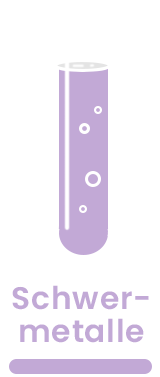
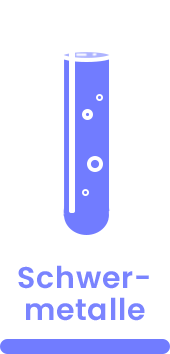
translation until screen 6

Changed region(s): [[0.0, 0.7458, 1.0, 1.0], [0.3438, 0.1243, 0.6875, 0.6836]]

diff --git a/static/js.js b/static/js.js
@@ -7,6 +7,7 @@ var language = "en";
 
 var indirect_num = 0;
 var direct_num = 0;
+var num_contact = 0;
 
 
 /* handle the scrolling stuffs */
@@ -44,9 +45,11 @@ function toggle_language() {
         elements[i].style.display = "block";
     }
 
-    display_direct()
-    display_indirect()
-
+    display_direct();
+    display_indirect();
+    toggle_contact();
+    toggle_health_products(1);
+    //toggle_health();
 }
 
 
@@ -332,15 +335,27 @@ function toggle_health(num_issue = -1) {
     var issues = ["bpa", "fsm", "pht", "hm"];
     var colors = ["#373450", "#373450", "#373450", "#373450"];
 
-    var buttons = ["new_images/sixth/Bisphenol.png",
-                    "new_images/sixth/Flammschutzmittel.png",
-                    "new_images/sixth/Phthalate.png",
-                    "new_images/sixth/Schwermetalle.png"];
+    if(language == "de"){
+        var buttons = ["new_images/sixth/Bisphenol.png",
+                        "new_images/sixth/Flammschutzmittel.png",
+                        "new_images/sixth/Phthalate.png",
+                        "new_images/sixth/Schwermetalle.png"];
 
-    var buttons_aktiv = ["new_images/sixth/Bisphenol_aktiv.png",
-                    "new_images/sixth/Flammschutzmittel_aktiv.png",
-                    "new_images/sixth/Phthalate_aktiv.png",
-                    "new_images/sixth/Schwermetalle_aktiv.png"];
+        var buttons_aktiv = ["new_images/sixth/Bisphenol_aktiv.png",
+                        "new_images/sixth/Flammschutzmittel_aktiv.png",
+                        "new_images/sixth/Phthalate_aktiv.png",
+                        "new_images/sixth/Schwermetalle_aktiv.png"];
+    } else {
+        var buttons = ["new_images/sixth/Bisphenol_Englisch.png",
+                        "new_images/sixth/Flammschutzmittel_Englisch.png",
+                        "new_images/sixth/Phthalate_Englisch.png",
+                        "new_images/sixth/Schwermetalle_Englisch.png"];
+
+        var buttons_aktiv = ["new_images/sixth/Bisphenol_aktiv_Englisch.png",
+                        "new_images/sixth/Flammschutzmittel_aktiv_Englisch.png",
+                        "new_images/sixth/Phthalate_aktiv_Englisch.png",
+                        "new_images/sixth/Schwermetalle_aktiv_Englisch.png"];
+    }
 
     // not used any more: this was part of changing the textbox background
     console.log("issue is: " + issues[num_issue]);
@@ -363,33 +378,65 @@ function toggle_health(num_issue = -1) {
 
         var desc = issues[i] + "_description";
         var element = document.getElementById(desc);
+        var element_en = document.getElementById(desc + "_en");
+
         element.parentElement.scrollTop = 0;
+        //element_en.parentElement.scrollTop = 0;
+
         if(i == num_issue){
-            element.classList.remove("hide");
-            element.classList.add("show");
+            if(language == "de"){
+                element.classList.remove("hide");
+                element.classList.add("show");
+                element_en.classList.remove("show");
+            element_en.classList.add("hide");
+            } else {
+                element.classList.remove("show");
+                element.classList.add("hide");
+                element_en.classList.remove("hide");
+                element_en.classList.add("show");
+            }
         } else {
             element.classList.remove("show");
             element.classList.add("hide");
+            element_en.classList.remove("show");
+            element_en.classList.add("hide");
         }
 
     }
 
 
     // these are hardcoded paths to the image sources
-    var pictures = ["new_images/sixth/Beschriftung_BPA.png",
-    "new_images/sixth/Beschriftung_Flammschutzmittel.png",
-    "new_images/sixth/Beschriftung_Phthalate.png",
-    "new_images/sixth/Beschriftung_Schwermetalle.png"];
+    if(language == "de"){
+        var pictures = ["new_images/sixth/Beschriftung_BPA.png",
+        "new_images/sixth/Beschriftung_Flammschutzmittel.png",
+        "new_images/sixth/Beschriftung_Phthalate.png",
+        "new_images/sixth/Beschriftung_Schwermetalle.png"];
 
-    var products = ["new_images/sixth/Icons Bisphenol A.png",
-    "new_images/sixth/Icons Flammschutzmittel.png",
-    "new_images/sixth/Icons Phthalate.png",
-    "new_images/sixth/Icons Schwermetalle.png"];
+        var products = ["new_images/sixth/Neu_Icons_BisphenolA.png",
+        "new_images/sixth/Neu_Icons_Flammschutzmittel.png",
+        "new_images/sixth/Neu_Icons_Phthalate.png",
+        "new_images/sixth/Neu_Icons_Schwermetalle.png"];
 
-    var labels = ["new_images/sixth/Box_BPA_Kunststoffarten.png",
-    "new_images/sixth/Box_Flammschutzmittel.png",
-    "new_images/sixth/Box_Phthalate.png",
-    "new_images/sixth/Box_Schwermetalle.png"];
+        var labels = ["new_images/sixth/Box_BPA_Kunststoffarten.png",
+        "new_images/sixth/Box_Flammschutzmittel.png",
+        "new_images/sixth/Box_Phthalate.png",
+        "new_images/sixth/Box_Schwermetalle.png"];
+    } else {
+        var pictures = ["new_images/sixth/Beschriftung_BPA_Englisch.png",
+        "new_images/sixth/Beschriftung_Flammschutzmittel_Englisch.png",
+        "new_images/sixth/Beschriftung_Phthalate_Englisch.png",
+        "new_images/sixth/Beschriftung_Schwermetalle_Englisch.png"];
+
+        var products = ["new_images/sixth/Neu_Icons_BisphenolA_Englisch.png",
+        "new_images/sixth/Neu_Icons_FlameRetardants_Englisch.png",
+        "new_images/sixth/Neu_Icons_Phthalates_Englisch.png",
+        "new_images/sixth/Neu_Icons_HeavyMetals_Englisch.png"];
+
+        var labels = ["new_images/sixth/Box_BPA_Kunststoffarten_Englisch.png",
+        "new_images/sixth/Box_Flammschutzmittel_Englisch.png",
+        "new_images/sixth/Box_Phthalate_Englisch.png",
+        "new_images/sixth/Box_Schwermetalle_Englisch.png"];
+    }
 
 
     if(health_toggle_persistence){
@@ -405,13 +452,22 @@ function toggle_health(num_issue = -1) {
 
 }
 
-function toggle_health_products(){
+function toggle_health_products(mode = 0){
 
     var togglebutton = document.getElementById("health_toggle");
-    togglebutton.src = !health_toggle_persistence ? "new_images/sixth/Button_Auswirkungen.png" : "new_images/sixth/Button_Produkte.png";
 
-    // here the toggle logic is set
-    health_toggle_persistence = !health_toggle_persistence;
+    if( mode == 0 ){
+        // here the toggle logic is set
+        health_toggle_persistence = !health_toggle_persistence;
+    }
+
+
+    if(language == "de"){
+        togglebutton.src = health_toggle_persistence ? "new_images/sixth/Button_Auswirkungen.png" : "new_images/sixth/Button_Produkte.png";
+    } else {
+        togglebutton.src = health_toggle_persistence ? "new_images/sixth/Button_Auswirkungen_Englisch.png" : "new_images/sixth/Button_Produkte_Englisch.png";
+    }
+
 
     // toggle_health is called by the buttons to change the shown content
     // in this case, we just want to reload the page because product view has been toggled
@@ -421,26 +477,58 @@ function toggle_health_products(){
 
 
 
-function toggle_contact(num_issue) {
+function toggle_contact(num_issue = -1) {
+
+    console.log("still working here");
+
+    if(num_issue == -1){
+        num_issue = num_contact;
+    } else {
+        num_contact = num_issue;
+    }
+
 
     var issues = ["atmung", "verzehr", "hautkontakt"];
 
-    var buttons = ["new_images/fifth/Atmung.png",
-                   "new_images/fifth/Verzehr.png",
-                   "new_images/fifth/Hautkontakt.png"];
+    if(language == "de") {
 
-    var buttons_aktiv = ["new_images/fifth/Atmung_ausgewählt.png",
-                    "new_images/fifth/Verzehr_ausgewählt.png",
-                    "new_images/fifth/Hautkontakt_ausgewählt.png"];
+        var buttons = ["new_images/fifth/Atmung.png",
+                       "new_images/fifth/Verzehr.png",
+                       "new_images/fifth/Hautkontakt.png"];
+
+        var buttons_aktiv = ["new_images/fifth/Atmung_ausgewählt.png",
+                        "new_images/fifth/Verzehr_ausgewählt.png",
+                        "new_images/fifth/Hautkontakt_ausgewählt.png"];
 
 
-    var descriptions = ["new_images/fifth/Atmung_beschreibung.png",
-                    "new_images/fifth/Verzehr_beschreibung.png",
-                    "new_images/fifth/Hautkontakt_beschreibung.png"];
+        var descriptions = ["new_images/fifth/Atmung_beschreibung.png",
+                        "new_images/fifth/Verzehr_beschreibung.png",
+                        "new_images/fifth/Hautkontakt_beschreibung.png"];
 
-    var icons = ["new_images/fifth/Icons_Atmen.png",
-                    "new_images/fifth/Icons_Verzehr.png",
-                    "new_images/fifth/Icons_Hautkontakt.png"];
+        var icons = ["new_images/fifth/Icons_Atmen_NEU.png",
+                        "new_images/fifth/Icons_Verzehr_NEU.png",
+                        "new_images/fifth/Icons_Hautkontakt_NEU.png"];
+
+    } else {
+
+        var buttons = ["new_images/fifth/Breathing.png",
+                       "new_images/fifth/consumption.png",
+                       "new_images/fifth/Skin contact.png"];
+
+        var buttons_aktiv = ["new_images/fifth/Atmung_ausgewählt_Englisch.png",
+                        "new_images/fifth/Verzehr_ausgewählt_Englisch.png",
+                        "new_images/fifth/Hautkontakt_ausgewählt_Englisch.png"];
+
+
+        var descriptions = ["new_images/fifth/Text_Breathing.png",
+                        "new_images/fifth/Text_Consumption.png",
+                        "new_images/fifth/Text_Skin contact.png"];
+
+        var icons = ["new_images/fifth/Icons_Atmen_NEU_Englisch.png",
+                        "new_images/fifth/Icons_Verzehr_NEU_Englisch.png",
+                        "new_images/fifth/Icons_Haut_NEU_Englisch.png"];
+
+    }
 
 
     // loop over all four available chemical buttons and change the active/passive state

diff --git a/static/index.html b/static/index.html
@@ -476,7 +476,7 @@
 
         <img id="contact_icons"
              style="height: 48.5%; left: 53%; bottom: 13.6%;"
-             src="new_images/fifth/Icons_Atmen.png">
+             src="new_images/fifth/Icons_Atmen_NEU.png">
 
 
 
@@ -537,8 +537,11 @@
             <div class="side_text"
                  style="width: 30%;  height: 100%; position: relative; background-color: #322d3a;">
 
-                <img src="new_images/sixth/Uberschrift_Screen_6.png"
+                <img src="new_images/sixth/Uberschrift_Screen_6.png" class="de"
                 style="position: absolute; height: 9.2%; left: 21.3%; top: 11.4%;" />
+                <img src="new_images/sixth/Überschrift_Screen_6_Englisch.png" class="en"
+                style="position: absolute; height: 9.2%; left: 21.3%; top: 11.4%; display: none;" />
+
 
                 <span class="icon_toggle_container">
                     <button id="bpa_button_health" class="active" onclick="toggle_health(0)"><img src="new_images/sixth/Bisphenol.png"></button>
@@ -559,6 +562,15 @@
                         <br>
                         BPA steht in der Europäischen Union auch auf der Liste der gefährlichsten Chemikalien. Grundsätzlich <b>verboten ist BPA jedoch nicht</b>.
                     </p>
+                    <p id="bpa_description_en" class="show">
+                        <b style="font-size: 14pt;">Area of application</b><br><br>
+                        Bisphenol A (BPA for short) is the <b>starting material for the production of various plastics</b> (PC, epoxy resins). In this case, the BPA is chemically bound and only dissolves out under extreme circumstances. However, it happens that not all of the bisphenol A is chemically converted during the manufacturing processes. Therefore, products made from these materials may still contain free bisphenol A residues.
+                        <br>Bisphenol A is also used as an additive. Here, BPA is used as a stabilizer (for durability/longer life of the plastic) or as a color-wrapping component. In this case, BPA is not chemically bound and can therefore be easily released.
+                        <br><br><br>
+                        <b style="font-size: 14pt;">Contact and ingestion</b><br><br>
+                        We absorb bisphenol A mainly through food and thermal paper. Bisphenol A can be dissolved out by hot as well as cold water (hydrolysis). Detergents and rinsing agents increase the dissolving out of BPA.
+                        BPA is also on the list of the most dangerous chemicals in the European Union. However, BPA is <b>not fundamentally forbidden</b>.
+                    </p>
 
                     <p id="fsm_description" class="hide">
                         <b style="font-size: 14pt;">Anwendungsbereich</b><br><br>
@@ -570,6 +582,12 @@
                         Flammschutzmittel finden sich in hoher Konzentration im Klärschlamm von Wasseraufbereitungsanlagen.
                         Dieser Schlamm wird entweder zum <b>Düngen von Feldern</b> verwendet oder <b>verbrannt</b>, wo er giftige Gase freisetzt.
                         Der Mensch kommt sowohl mit den Schadstoffen in der Luft, als auch mit den Produkten der gedüngten Felder in Kontakt.
+                    </p>
+                    <p id="fsm_description_en" class="hide">
+                        <b style="font-size: 14pt;">Area of application</b><br><br>
+                        Flame retardants are chemical compounds that can change the flash point of a material. There are bound and unbound flame retardants, the latter can easily dissolve from products. The largest area of application for flame retardants is electronic equipment, followed  by construction.<br><br><br>
+                        <b style="font-size: 14pt;">Contact and ingestion</b><br><br>
+                        Flame retardants are found in high concentrations in sewage sludge from water treatment plants. This sludge is either used to fertilize fields or burned, where it releases toxic gases. Humans come into contact with both the pollutants in the air and the products of the fertilized fields.
                     </p>
 
                     <p id="pht_description" class="hide">
@@ -585,6 +603,16 @@
                         <br>
                         Wir nehmen die Weichmacher vor allem über die Luft und die Nahrung auf. Fast bei jedem sind Phthalate oder ihre Abbauprodukte (Metabolite) im Blut und/oder im Urin nachweisbar.
                     </p>
+                    <p id="pht_description_en" class="hide">
+                        <b style="font-size: 14pt;">Area of application</b><br><br>
+                        Phthalates are industrial chemicals that are used primarily as plasticizers for plastics. Without them, these plastics would be far too hard and fragile for many applications.
+                        <br><br><br>
+                        <b style="font-size: 14pt;">Contact and ingestion</b><br><br>
+                        Since phthalates as plasticizers are not chemically bound to the plastic, they can be dissolved by the fat in the skin, by sweat or by saliva when they come into contact with the body and thus enter the body.
+                        Due to the lipophilic (fat-loving) properties of phthalates, it is also possible to ingest the plasticizers through fatty foods (e.g. cooking oil) that have had contact with the plastic.
+                        Furthermore, phthalates outgas from plasticized plastics and thus pollute indoor air - particularly relevant for large-area products such as plastic wallpaper or floor coverings.
+                        We absorb the plasticizers primarily through the air and food. Phthalates or their degradation products (metabolites) can be detected in the blood and/or urine of almost everyone.
+                    </p>
 
                     <p id="hm_description" class="hide">
                         <b style="font-size: 14pt;">Anwendungsbereich</b><br><br>
@@ -597,6 +625,14 @@
                         <b style="font-size: 14pt;">Kontakt und Aufnahme</b><br><br>
                         Studien haben gezeigt, dass <b>Kunststoffverbindungen freie Schwermetalle aufnehmen</b> können. In einem Versuch wurde nachgewiesen, dass PVC freigewordenes Zink und Kupfer aus Meerwasser aufgenommen hat.
                         Diese Tatsache führt dazu, dass Mikroplastik in der Umwelt vorhandene Schwermetalle aufnehmen kann und somit in die <b>Nahrungskette von Fischen und schließlich zum Menschen</b> gelangt.
+                    </p>
+                    <p id="hm_description_en" class="hide">
+                        <b style="font-size: 14pt;">Area of application</b><br><br>
+                        Heavy metals are used as additives for plastic products to modify and improve the properties of plastic. They are used as heat and UV stabilizers, as inorganic flame retardants and as color pigments.
+                        Heavy metals include all metals with a density greater than 5g per cubic centimeter. Heavy metals occur naturally in the environment. Some of them are essential for life (iron, zinc), while others are highly toxic (lead, cadmium or mercury).
+                        <br><br><br>
+                        <b style="font-size: 14pt;">Contact and ingestion</b><br><br>
+                        Studies have shown that plastic compounds can absorb free heavy metals. In one experiment, PVC was shown to absorb released zinc and copper from seawater. This fact leads to the fact that microplastics can absorb heavy metals present in the environment and thus <b>enter the food chain of fish and eventually to humans</b>.
                     </p>
                 </span>
 
@@ -622,8 +658,14 @@
                      style="position: absolute; top: 7.6%; right: 0%; height: 4.3%;">
 
 
-                <img src="new_images/sixth/Text_mit_Pfeil_Screen_6.png"
+                <img src="new_images/sixth/Text_mit_Pfeil_Screen_6.png" class="de"
                      style="position: absolute; top: 12%; left: 4%; height: 14.6%;"
+                    data-18900="opacity: 0;"
+                    data-19200="opacity: 1;"
+                    data-19600="opacity: 1;"
+                    data-19900="opacity: 0;">
+                <img src="new_images/sixth/Pfeil Text 2_Englisch.png" class="en"
+                     style="position: absolute; top: 12%; left: 4%; height: 14.6%; display: none;"
                     data-18900="opacity: 0;"
                     data-19200="opacity: 1;"
                     data-19600="opacity: 1;"
